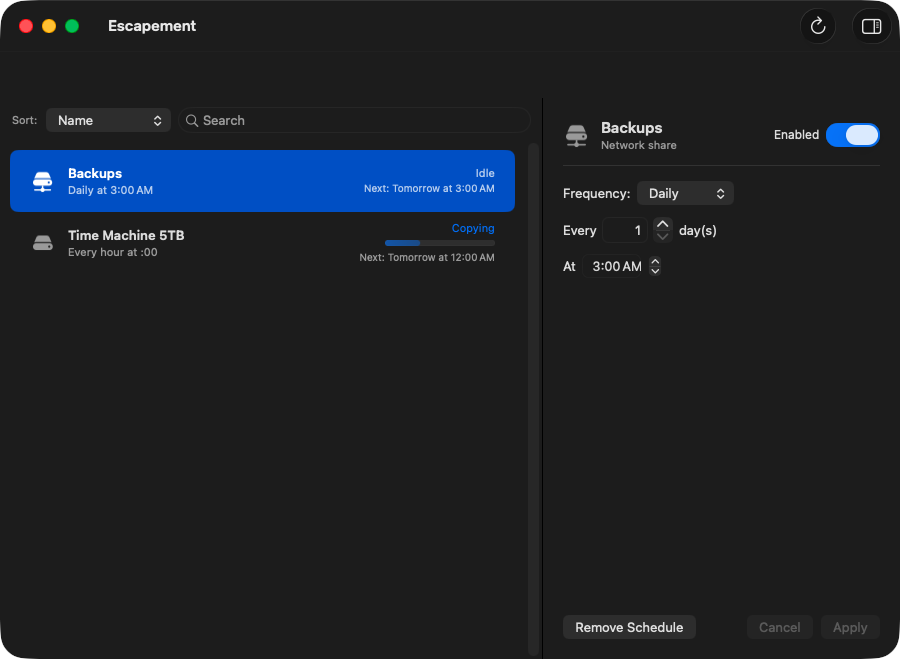
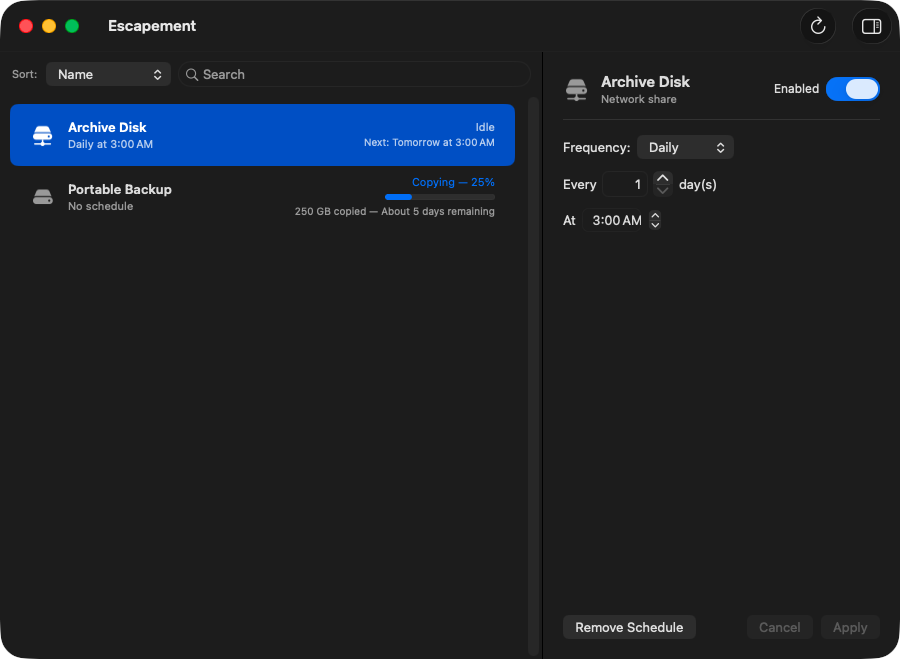
chore(release): prepare v0.2.0
Replace captured Time Machine identifiers, timestamps, measurements,
and destination names with explicit example data.

Update the website version and main screenshot for the v0.2.0 interface.
The screenshot uses synthetic destinations and contains no capture
metadata.

diff --git a/Tests/EscapementKitTests/TimeMachineOutputParserTests.swift b/Tests/EscapementKitTests/TimeMachineOutputParserTests.swift
@@ -24,13 +24,13 @@ struct DestinationParsingTests {
 
         #expect(destinations.count == 2)
 
-        let network = try #require(destinations.first { $0.name == "Backups" })
-        #expect(network.id == "B2FFC925-13A8-46C5-9469-153616C91FA9")
-        #expect(network.kind == .network(url: "smb://user@example._smb._tcp.local./Backups"))
+        let network = try #require(destinations.first { $0.name == "Example Network Backup" })
+        #expect(network.id == "11111111-1111-1111-1111-111111111111")
+        #expect(network.kind == .network(url: "smb://user@example._smb._tcp.local./Backup"))
         #expect(network.isLastUsed == true)
 
-        let local = try #require(destinations.first { $0.name == "Time Machine 5TB" })
-        #expect(local.id == "BC2DCD93-1902-44DD-838B-814AAD1116CF")
+        let local = try #require(destinations.first { $0.name == "Example Local Backup" })
+        #expect(local.id == "22222222-2222-2222-2222-222222222222")
         #expect(local.kind == .local)
         #expect(local.isLastUsed == false)
     }
@@ -82,7 +82,7 @@ struct StatusParsingTests {
         #expect(
             activity
                 == .running(
-                    destinationID: "B2FFC925-13A8-46C5-9469-153616C91FA9",
+                    destinationID: "11111111-1111-1111-1111-111111111111",
                     phase: .mountingDiskImage, progress: nil))
     }
 
@@ -94,22 +94,24 @@ struct StatusParsingTests {
             Issue.record("expected .running, got \(activity)")
             return
         }
-        #expect(id == "BC2DCD93-1902-44DD-838B-814AAD1116CF")
+        #expect(id == "22222222-2222-2222-2222-222222222222")
         #expect(phase == .copying)
         let progress = try #require(parsedProgress)
-        #expect(abs((progress.fractionCompleted ?? 0) - 0.02497832746480003) < 0.0001)
-        #expect(progress.bytesCopied == 10_750_128_128)
-        #expect(progress.totalBytes == 2_191_954_460_672)
-        #expect(progress.filesCopied == 170)
-        #expect(progress.totalFiles == 5_451_403)
-        #expect(progress.timeRemaining == 452_949.0753096844)
+        #expect(progress.fractionCompleted == 0.25)
+        #expect(progress.bytesCopied == 250_000_000_000)
+        #expect(progress.totalBytes == 1_000_000_000_000)
+        #expect(progress.filesCopied == 250)
+        #expect(progress.totalFiles == 1_000)
+        #expect(progress.timeRemaining == 432_000)
     }
 
     @Test("the Stopping phase is its own state, not running")
     func stopping() throws {
         let activity = try TimeMachineOutputParser.activity(
             fromStatusOutput: try fixtureString("status-stopping", "txt"))
-        #expect(activity == .stopping(destinationID: "B2FFC925-13A8-46C5-9469-153616C91FA9"))
+        #expect(
+            activity
+                == .stopping(destinationID: "11111111-1111-1111-1111-111111111111"))
     }
 
     @Test("a Percent of -1 is indeterminate, never zero")

diff --git a/Tests/EscapementKitTests/StatusSummaryTests.swift b/Tests/EscapementKitTests/StatusSummaryTests.swift
@@ -153,13 +153,14 @@ struct StatusSummaryTests {
                 destinationID: "D2",
                 recurrence: .daily(times: [TimeOfDay(hour: 14, minute: 0)!])!,
                 isEnabled: true, effectiveFrom: date(2026, 3, 1)))
-        let other = Destination(id: "D2", name: "Time Machine 5TB", kind: .local, isLastUsed: false)
+        let other = Destination(
+            id: "D2", name: "Example Local Backup", kind: .local, isLastUsed: false)
 
         let s = builder.summary(
             destinations: [backups, other], configuration: config, state: AgentState(),
             history: [], activity: .idle, now: date(2026, 3, 10, 12, 0))
 
-        #expect(plain(s.stateLine) == "Next backup: Time Machine 5TB at 2:00 PM")
+        #expect(plain(s.stateLine) == "Next backup: Example Local Backup at 2:00 PM")
     }
 
     @Test("a schedule for a destination that is no longer attached falls back to its id")

diff --git a/Tests/EscapementKitTests/BackupProgressFormatterTests.swift b/Tests/EscapementKitTests/BackupProgressFormatterTests.swift
@@ -10,9 +10,9 @@ struct BackupProgressFormatterTests {
     @Test("formats copied bytes and Apple's approximate multi-day estimate")
     func bytesAndDays() {
         let progress = BackupProgress(
-            bytesCopied: 10_750_128_128,
-            timeRemaining: 452_949.0753096844)
-        #expect(formatter.detail(progress) == "10.75 GB copied — About 5 days remaining")
+            bytesCopied: 250_000_000_000,
+            timeRemaining: 432_000)
+        #expect(formatter.detail(progress) == "250 GB copied — About 5 days remaining")
     }
 
     @Test("formats either detail independently")

diff --git a/Tests/EscapementKitTests/Fixtures/README.md b/Tests/EscapementKitTests/Fixtures/README.md
@@ -1,10 +1,10 @@
 # Fixtures
 
-Real `tmutil` output, captured from macOS 26.5.1, with hostnames and user
-names replaced by `example` / `user`. Nothing else has been reformatted —
-including the quoting and the `attemptOptions` key — because the parsers under
-test have to cope with exactly what `tmutil` emits, not with a tidied version
-of it.
+Representative `tmutil` output from macOS 26.5.1. Hostnames, user names,
+destination identifiers, timestamps, and backup measurements are replaced by
+obvious example values. The quoting, key names, and dictionary shapes remain
+as emitted because the parsers under test must cope with `tmutil`'s format,
+not a tidied version of it.
 
 | File | Captured from |
 | --- | --- |
@@ -20,6 +20,5 @@ Note that `status-mounting.txt` and `status-stopping.txt` both carry
 phases and must render as indeterminate; `Stopping` is distinguished from
 `MountingDiskImage` only by `BackupPhase`.
 
-`status-copying.txt` was captured during a long-running backup to a local
-destination. Its volume name was replaced with `example`; numeric values and
-the nested-only `Progress` shape are otherwise unchanged.
+`status-copying.txt` preserves the nested-only `Progress` shape observed during
+a long-running local backup while using synthetic identifiers and measurements.

diff --git a/docs/specs/010-backup-progress.md b/docs/specs/010-backup-progress.md
@@ -15,12 +15,12 @@ its own competing estimate.
 backup reports a nested dictionary:
 
     Progress = {
-        Percent = "0.02497832746480003";
-        TimeRemaining = "452949.0753096844";
-        bytes = 10750128128;
-        files = 170;
-        totalBytes = 2191954460672;
-        totalFiles = 5451403;
+        Percent = "0.25";
+        TimeRemaining = "432000";
+        bytes = 250000000000;
+        files = 250;
+        totalBytes = 1000000000000;
+        totalFiles = 1000;
     };
 
 Older observed output also carries `Percent` at the top level. Parse both
@@ -53,8 +53,8 @@ While copying, a destination row shows:
 
 Examples:
 
-    Copying — 2%
-    10.75 GB copied — About 5 days remaining
+    Copying — 25%
+    250 GB copied — About 5 days remaining
 
     Copying
     About 8 minutes remaining
@@ -69,8 +69,8 @@ ETA.
 
 ## Verification
 
-- Replace the synthesized Copying fixture with sanitized output captured from
-  the live “Time Machine 5TB” backup.
+- Replace the synthesized Copying fixture with a sanitized example preserving
+  the nested shape of live `tmutil status` output.
 - Test nested current output, legacy top-level percentage, absent progress,
   malformed metrics, and clamping.
 - Build and install the signed app, then verify its row against live

diff --git a/docs/ARCHITECTURE.md b/docs/ARCHITECTURE.md
@@ -80,8 +80,8 @@ the unified log subsystem `com.apple.TimeMachine`.
 While running it reports the fields the UI needs:
 
     BackupPhase = MountingDiskImage
-    DestinationID = B2FFC925-...
-    DestinationMountPoint = /Volumes/Backups of m1
+    DestinationID = 11111111-...
+    DestinationMountPoint = /Volumes/Backups of example
     Percent = -1
     Running = 1
 
